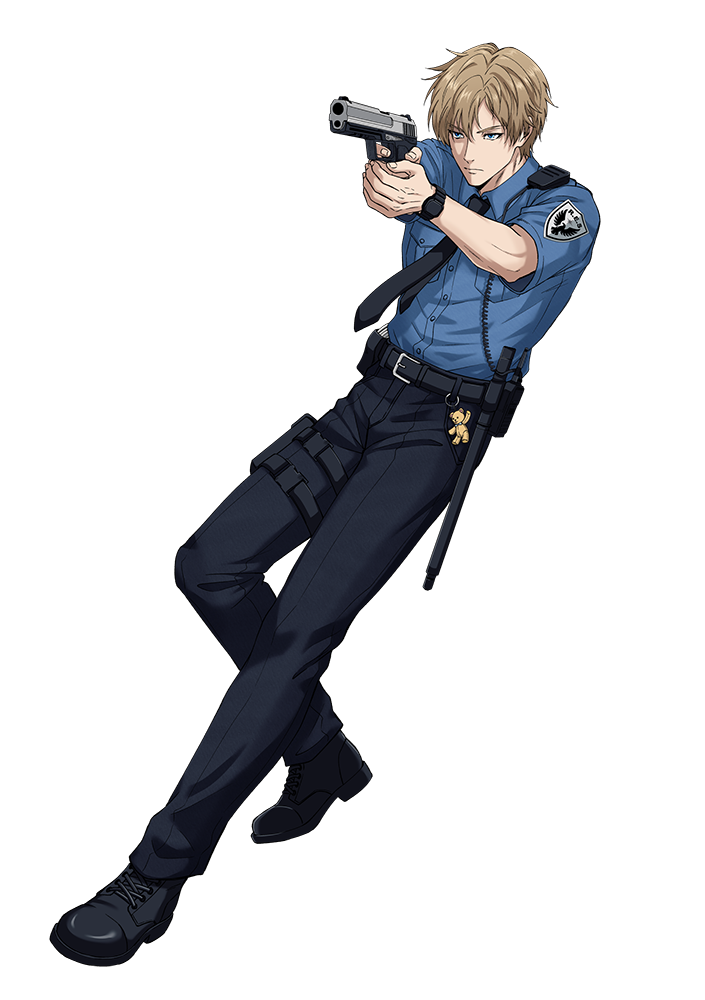
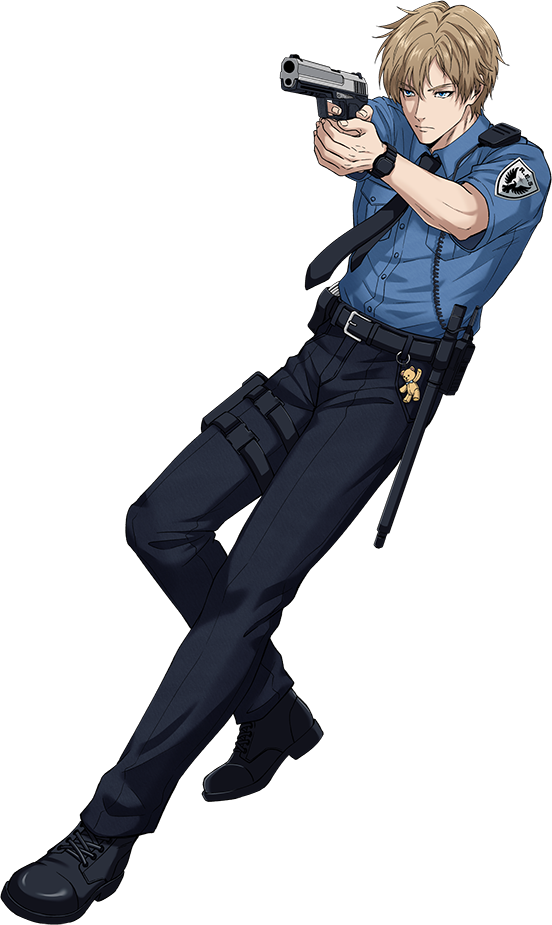
悲傷的整理圖片

Changed region(s): [[0.0, 0.0, 1.0, 1.0]]

diff --git a/src/components/CharacterInfo.vue b/src/components/CharacterInfo.vue
@@ -23,7 +23,7 @@ defineProps<{ info: Info,
 <template>
     <!-- 單張卡片 -->
      <div class="flex flex-col md:grid md:grid-cols-2 gap-4 items-center" v-if="positionIndex === info.index">
-        <div class="flex justify-center items-center"><img class="h-full max-h-[450px]" alt="" :src="info.img"></div>
+        <div class="flex justify-center items-center"><img class="h-full max-h-[550px]" alt="" :src="info.img"></div>
         <div class="flex flex-col justify-start gap-0.5 text-left">
             <div class="flex items-center gap-2 mb-1">
                 <!-- 角色縮圖 -->
